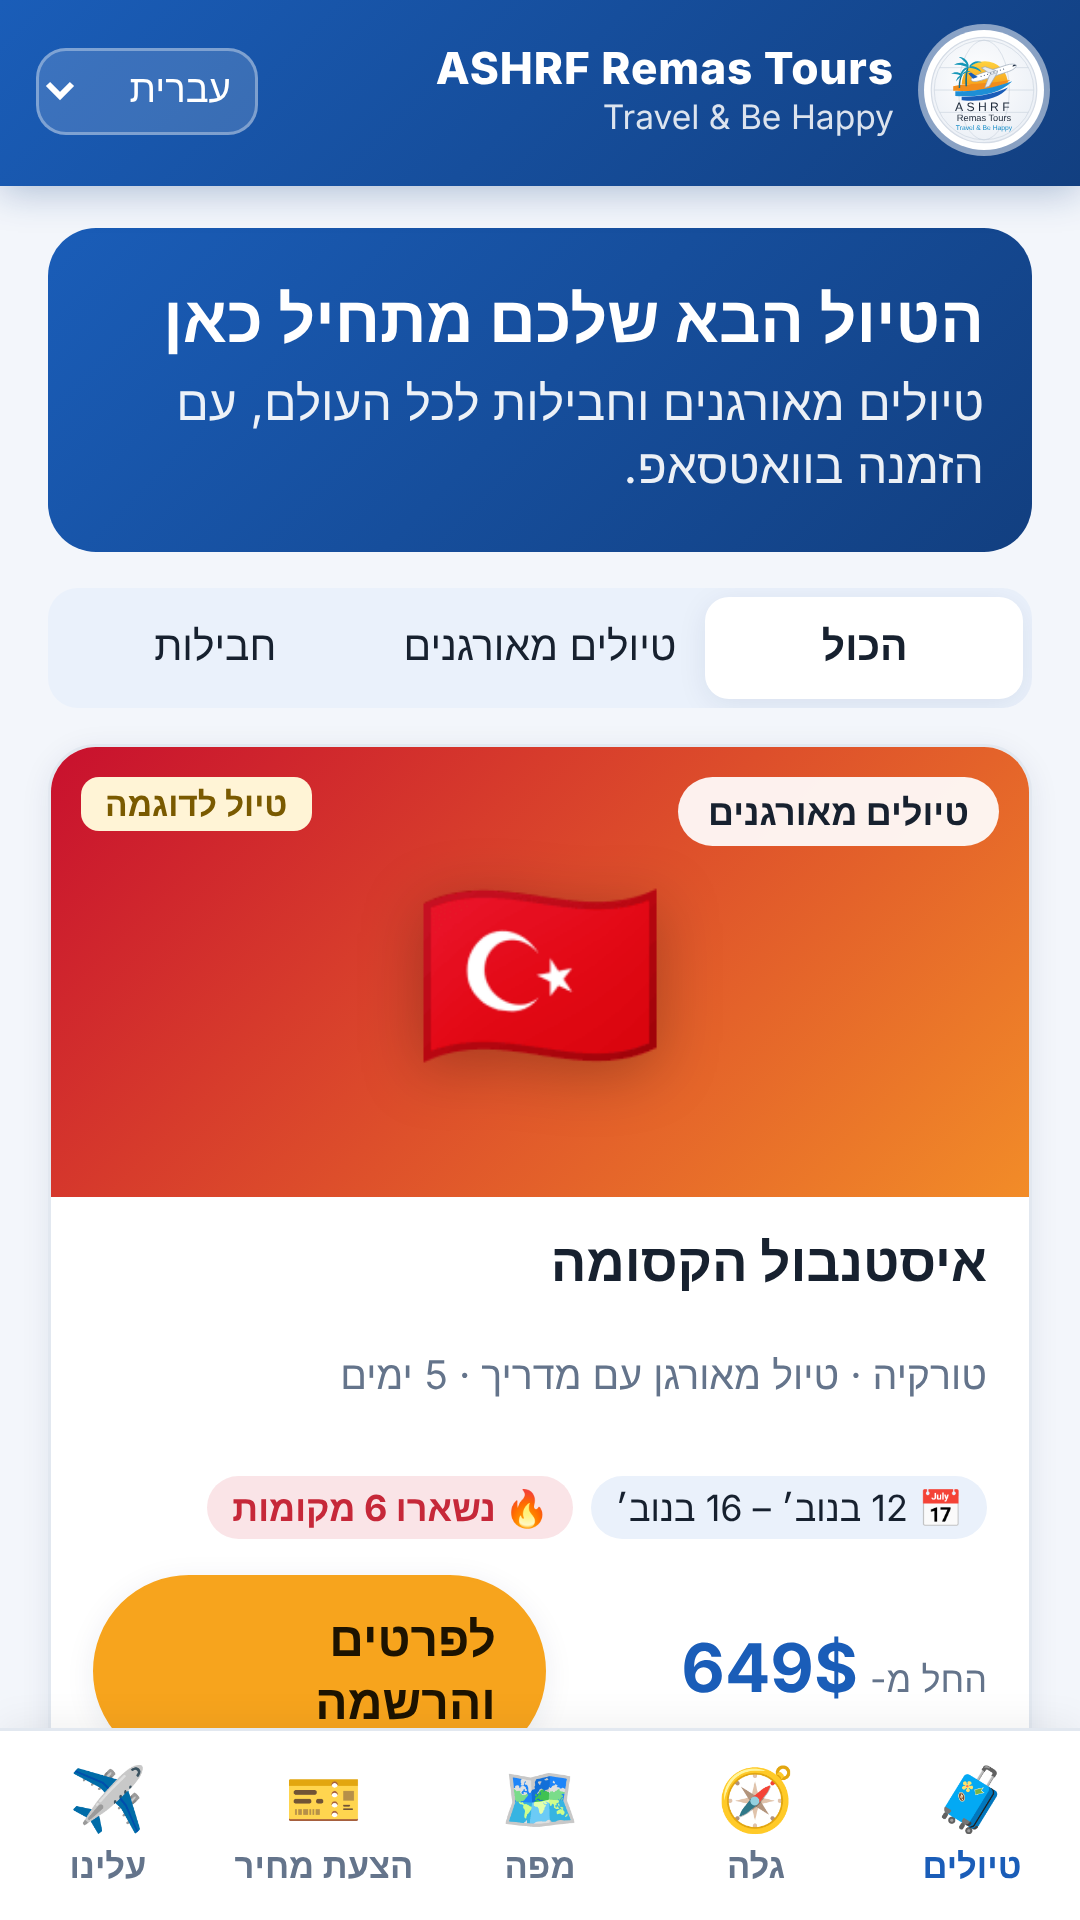
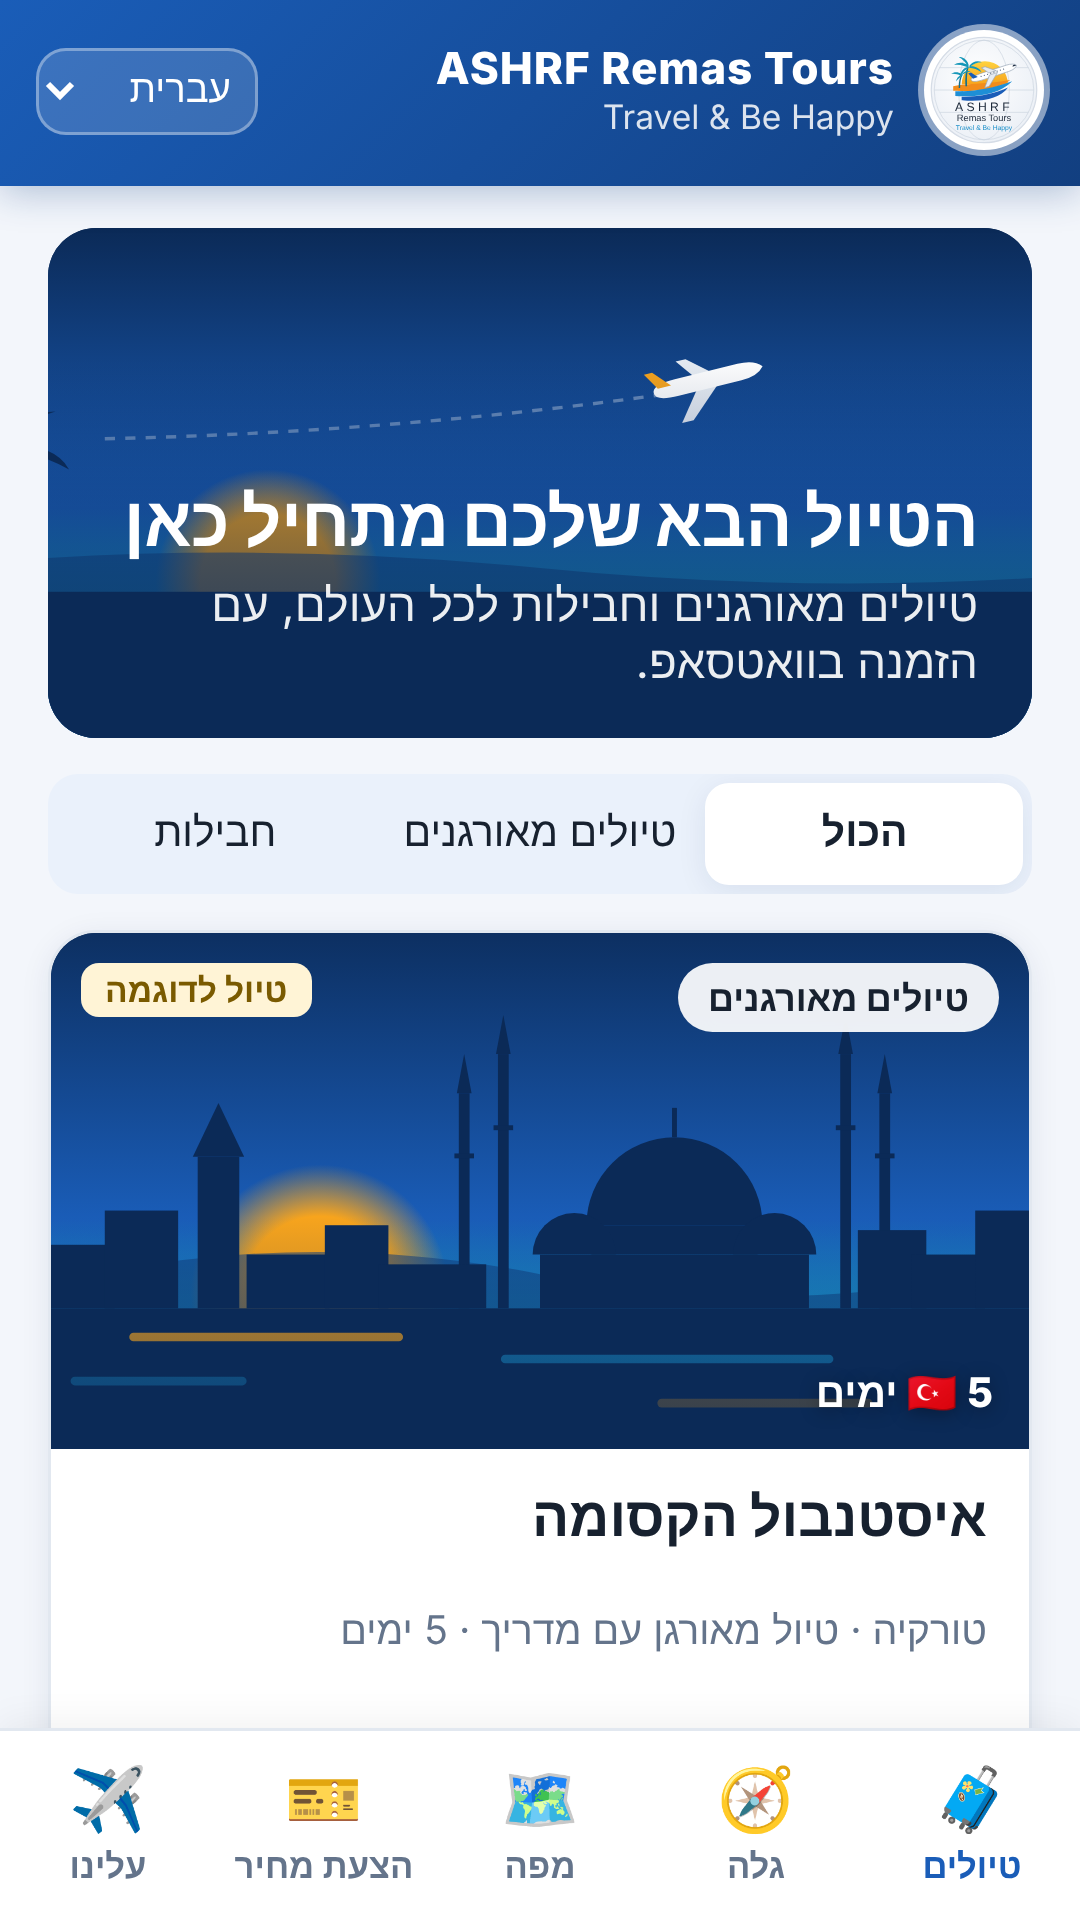
Illustrated trips store: destination scenes instead of flag covers
- scenes.js draws brand-style dusk illustrations per destination
  (Istanbul, Georgia, Petra, Dubai, Thailand) plus a plane-over-sea hero
- Trip cards and trip pages use the scene (or a real photo via image),
  with type, sample and days chips over a soft shade
- Illustrated hero banner, stronger typography and card hover
- Refreshed store screenshots

Claude-Session: https://claude.ai/code/session_01KWzyG75u2X6yaQpvVAqeeU

diff --git a/scenes.js b/scenes.js
@@ -1,0 +1,123 @@
+/* Destination illustrations (inline SVG) in the ASHRF brand style:
+ * dusk sky (night → blue → teal), low orange sun, a recognisable silhouette, and the
+ * logo's sea waves. Used when a trip has no real photo.
+ * Usage: Scenes.render("istanbul") · Scenes.hero()
+ */
+(() => {
+  "use strict";
+  const C = { night: "#0B2A57", deep: "#123F80", blue: "#1A5DB8", teal: "#1A8FC9", sun: "#F7A41D", snow: "#EAF2FF" };
+  let n = 0;
+
+  // Shared frame: sky, sun, far hills, then the scene's silhouette, then sea + waves.
+  function frame(w, h, ground, sunX, silhouette, opts = {}) {
+    const id = "sc" + (++n);
+    const g = ground;
+    const waves = [[0.08, 0.28, C.sun], [0.46, 0.34, C.teal], [0.02, 0.18, C.teal], [0.62, 0.22, C.sun]]
+      .map(([x, ww, c], i) => `<rect x="${x * w}" y="${g + 10 + i * 9}" width="${ww * w}" height="3.5" rx="1.75" fill="${c}" opacity="${(0.85 - i * 0.16).toFixed(2)}"/>`).join("");
+    return `<svg viewBox="0 0 ${w} ${h}" preserveAspectRatio="xMidYMid slice" aria-hidden="true" focusable="false">
+      <defs>
+        <linearGradient id="${id}s" x1="0" y1="0" x2="0" y2="1">
+          <stop offset="0" stop-color="${C.night}"/><stop offset=".55" stop-color="${opts.mid || C.blue}"/><stop offset="${(g / h).toFixed(2)}" stop-color="${opts.horizon || C.teal}"/>
+        </linearGradient>
+        <radialGradient id="${id}u"><stop offset="0" stop-color="${C.sun}"/><stop offset=".6" stop-color="${C.sun}"/><stop offset="1" stop-color="${C.sun}" stop-opacity="0"/></radialGradient>
+      </defs>
+      <rect width="${w}" height="${h}" fill="url(#${id}s)"/>
+      <circle cx="${sunX}" cy="${g - 6}" r="${h * 0.22}" fill="url(#${id}u)"/>
+      <path d="M0 ${g - 10} Q ${w * 0.25} ${g - 34} ${w * 0.5} ${g - 14} T ${w} ${g - 18} V ${h} H 0 Z" fill="${C.deep}" opacity=".55"/>
+      ${silhouette}
+      <rect x="0" y="${g}" width="${w}" height="${h - g}" fill="${opts.ground || C.night}"/>
+      ${opts.sea === false ? "" : waves}
+    </svg>`;
+  }
+
+  const W = 400, H = 240, G = 168;
+
+  const scenes = {
+    // Mosque with four minarets, Galata-style tower and low city
+    istanbul() {
+      const cx = 255;
+      let s = `<g fill="${C.night}">`;
+      s += `<rect x="${cx - 55}" y="${G - 22}" width="110" height="22"/><rect x="${cx - 34}" y="${G - 34}" width="68" height="12"/>`;
+      s += `<path d="M${cx - 36} ${G - 34} A36 36 0 0 1 ${cx + 36} ${G - 34} Z"/><rect x="${cx - 1}" y="${G - 82}" width="2" height="12"/>`;
+      s += `<path d="M${cx - 58} ${G - 22} A17 17 0 0 1 ${cx - 24} ${G - 22} Z"/><path d="M${cx + 24} ${G - 22} A17 17 0 0 1 ${cx + 58} ${G - 22} Z"/>`;
+      for (const [mx, mh] of [[cx - 70, 104], [cx + 70, 104], [cx - 86, 88], [cx + 86, 88]]) {
+        s += `<rect x="${mx - 2.2}" y="${G - mh}" width="4.4" height="${mh}"/><path d="M${mx - 3} ${G - mh} L${mx} ${G - mh - 16} L${mx + 3} ${G - mh} Z"/><rect x="${mx - 4}" y="${G - mh * 0.72}" width="8" height="2"/>`;
+      }
+      s += `<rect x="60" y="${G - 62}" width="17" height="62"/><path d="M58 ${G - 62} L68.5 ${G - 84} L79 ${G - 62} Z"/>`;
+      for (const [x, w, h] of [[0, 26, 26], [22, 30, 40], [80, 34, 22], [112, 26, 34], [134, 44, 18], [330, 28, 32], [352, 30, 22], [378, 22, 40]]) s += `<rect x="${x}" y="${G - h}" width="${w}" height="${h}"/>`;
+      return frame(W, H, G, 110, s + "</g>");
+    },
+
+    // Caucasus peaks with snow caps and a hilltop church
+    georgia() {
+      let s = `<path d="M-10 ${G} L70 ${G - 92} L110 ${G - 60} L170 ${G - 124} L240 ${G - 50} L300 ${G - 104} L410 ${G} Z" fill="${C.deep}"/>`;
+      s += `<path d="M152 ${G - 96} L170 ${G - 124} L188 ${G - 98} L178 ${G - 92} L170 ${G - 100} L162 ${G - 90} Z" fill="${C.snow}" opacity=".9"/>`;
+      s += `<path d="M284 ${G - 80} L300 ${G - 104} L316 ${G - 82} L306 ${G - 78} L300 ${G - 86} L292 ${G - 76} Z" fill="${C.snow}" opacity=".85"/>`;
+      s += `<path d="M58 ${G - 74} L70 ${G - 92} L82 ${G - 76} L74 ${G - 72} Z" fill="${C.snow}" opacity=".8"/>`;
+      s += `<g fill="${C.night}"><path d="M-10 ${G} Q 90 ${G - 54} 190 ${G - 30} T 410 ${G - 20} V ${G} Z"/>`;
+      s += `<rect x="96" y="${G - 70}" width="34" height="22"/><rect x="106" y="${G - 84}" width="14" height="14"/><path d="M104 ${G - 84} L113 ${G - 100} L122 ${G - 84} Z"/><rect x="112" y="${G - 108}" width="2" height="8"/></g>`;
+      return frame(W, H, G, 330, s, { mid: C.blue });
+    },
+
+    // Sandstone cliffs with the Treasury façade
+    petra() {
+      const rock = "#8C4A1A", rockLight = "#B8692E";
+      let s = `<path d="M-10 ${G} L-10 ${G - 120} Q 40 ${G - 140} 90 ${G - 128} L150 ${G - 132} L150 ${G} Z" fill="${rock}"/>`;
+      s += `<path d="M250 ${G} L250 ${G - 136} Q 320 ${G - 150} 410 ${G - 126} L410 ${G} Z" fill="${rock}"/>`;
+      s += `<path d="M150 ${G} L150 ${G - 132} L250 ${G - 136} L250 ${G} Z" fill="${rockLight}"/>`;
+      s += `<g fill="${rock}" opacity=".9"><rect x="166" y="${G - 112}" width="68" height="4"/><path d="M168 ${G - 112} L200 ${G - 126} L232 ${G - 112} Z"/><rect x="176" y="${G - 104}" width="48" height="3"/>`;
+      for (const x of [170, 184, 210, 224]) s += `<rect x="${x}" y="${G - 60}" width="5" height="60"/><rect x="${x}" y="${G - 100}" width="5" height="32"/>`;
+      s += `<rect x="166" y="${G - 64}" width="68" height="4"/><rect x="193" y="${G - 40}" width="14" height="40"/><path d="M196 ${G - 100} h8 v22 h-8 Z"/></g>`;
+      s += `<path d="M-10 ${G} Q 120 ${G - 14} 200 ${G - 6} T 410 ${G - 10} V ${G} Z" fill="#5A2E10"/>`;
+      // desert: sand ground instead of the sea
+      return frame(W, H, G, 200, s, { mid: "#2A5EA8", horizon: "#E0A458", ground: "#5A2E10", sea: false });
+    },
+
+    // Burj Khalifa, towers and the sail hotel
+    dubai() {
+      let s = `<g fill="${C.night}">`;
+      s += `<path d="M196 ${G} L196 ${G - 60} L200 ${G - 60} L200 ${G - 100} L203 ${G - 100} L203 ${G - 132} L205 ${G - 132} L206 ${G - 156} L207 ${G - 132} L209 ${G - 132} L209 ${G - 100} L212 ${G - 100} L212 ${G - 60} L216 ${G - 60} L216 ${G} Z"/>`;
+      for (const [x, w, h] of [[110, 20, 70], [134, 16, 92], [154, 22, 58], [232, 18, 80], [254, 24, 64], [282, 14, 98], [300, 22, 52], [80, 22, 46]]) s += `<rect x="${x}" y="${G - h}" width="${w}" height="${h}"/>`;
+      s += `<path d="M340 ${G} L340 ${G - 84} Q 372 ${G - 66} 374 ${G} Z"/><rect x="336" y="${G - 88}" width="3" height="88"/></g>`;
+      return frame(W, H, G, 110, s, { horizon: "#3AA0D8" });
+    },
+
+    // Temple spire, palms and karst islands in the sea
+    thailand() {
+      let s = `<g fill="${C.night}">`;
+      s += `<path d="M150 ${G} L150 ${G - 20} L160 ${G - 20} L160 ${G - 34} L168 ${G - 34} L174 ${G - 70} L176 ${G - 96} L178 ${G - 70} L184 ${G - 34} L192 ${G - 34} L192 ${G - 20} L202 ${G - 20} L202 ${G} Z"/>`;
+      s += `<path d="M120 ${G} L120 ${G - 16} L132 ${G - 30} L144 ${G - 16} L144 ${G} Z"/><path d="M208 ${G} L208 ${G - 16} L220 ${G - 30} L232 ${G - 16} L232 ${G} Z"/>`;
+      for (const [x, h, flip] of [[48, 78, 1], [70, 64, -1], [352, 72, -1]]) {
+        s += `<path d="M${x} ${G} Q ${x + 6 * flip} ${G - h / 2} ${x + 2 * flip} ${G - h}" stroke="${C.night}" stroke-width="4" fill="none"/>`;
+        const tx = x + 2 * flip, ty = G - h;
+        s += `<path d="M${tx} ${ty} q -22 -4 -30 10 q 14 -8 30 -10 Z M${tx} ${ty} q 22 -4 30 10 q -14 -8 -30 -10 Z M${tx} ${ty} q -8 -18 -24 -18 q 14 4 24 18 Z M${tx} ${ty} q 8 -18 24 -18 q -14 4 -24 18 Z"/>`;
+      }
+      s += `</g><g fill="${C.deep}"><path d="M262 ${G} Q 262 ${G - 46} 280 ${G - 52} Q 296 ${G - 46} 296 ${G} Z"/><path d="M300 ${G} Q 302 ${G - 30} 314 ${G - 34} Q 326 ${G - 28} 326 ${G} Z"/></g>`;
+      return frame(W, H, G, 300, s, { horizon: "#26A69A" });
+    },
+
+    // Generic: plane over sea with palms (the logo's motif)
+    default() { return hero(W, H, G); },
+  };
+
+  function hero(w = 800, h = 300, g = 214) {
+    let s = `<g fill="${C.night}">`;
+    for (const [x, hh, flip] of [[w * 0.07, h * 0.36, 1], [w * 0.11, h * 0.28, -1]]) {
+      s += `<path d="M${x} ${g} Q ${x + 8 * flip} ${g - hh / 2} ${x + 3 * flip} ${g - hh}" stroke="${C.night}" stroke-width="5" fill="none"/>`;
+      const tx = x + 3 * flip, ty = g - hh;
+      s += `<path d="M${tx} ${ty} q -28 -5 -38 12 q 18 -10 38 -12 Z M${tx} ${ty} q 28 -5 38 12 q -18 -10 -38 -12 Z M${tx} ${ty} q -10 -22 -30 -22 q 18 5 30 22 Z M${tx} ${ty} q 10 -22 30 -22 q -18 5 -30 22 Z"/>`;
+    }
+    s += `</g>`;
+    // plane with contrail
+    const px = w * 0.62, py = h * 0.3;
+    s += `<path d="M${w * 0.18} ${py + 34} Q ${w * 0.4} ${py + 30} ${px - 10} ${py + 6}" stroke="#FFFFFF" stroke-opacity=".35" stroke-width="2" fill="none" stroke-dasharray="6 6"/>`;
+    s += `<g transform="translate(${px} ${py}) rotate(-14)" fill="#FFFFFF"><path d="M-30 0 q 0 -5 14 -5 h 38 q 10 0 14 5 q -4 5 -14 5 h -38 q -14 0 -14 -5 Z"/><path d="M-4 3 l -14 18 h 7 l 20 -18 Z" opacity=".9"/><path d="M-4 -3 l -9 -12 h 6 l 14 12 Z" opacity=".9"/><path d="M-27 -2 l -6 -10 h 5 l 9 10 Z" fill="${C.sun}"/></g>`;
+    return frame(w, h, g, w * 0.3, s, { sea: false });
+  }
+
+  window.Scenes = {
+    render(kind) { return (scenes[kind] || scenes.default)(); },
+    hero: () => hero(),
+    kinds: Object.keys(scenes),
+  };
+})();

diff --git a/styles.css b/styles.css
@@ -457,3 +457,25 @@ textarea { font: inherit; resize: vertical; }
 #favBtn { min-height: 44px; }
 .chips { display: flex; flex-wrap: wrap; gap: 6px; }
 .chip.active { background: var(--primary); color: #fff; border-color: var(--primary); }
+
+/* ---------- Trips store: illustrated design ---------- */
+.trips-hero { position: relative; overflow: hidden; padding: 0; min-height: 170px; display: flex; align-items: flex-end; background: #0B2A57; }
+.trips-hero > svg { position: absolute; inset: 0; width: 100%; height: 100%; }
+.trips-hero::after { content: ""; position: absolute; inset: 0; background: linear-gradient(180deg, rgba(11,42,87,0) 25%, rgba(11,42,87,.88) 100%); }
+.trips-hero-text { position: relative; z-index: 1; padding: 18px 18px 16px; }
+.trips-hero-text h2 { margin: 0 0 4px; font-size: 1.45rem; font-weight: 900; letter-spacing: -.01em; text-wrap: balance; }
+.trips-hero-text p { margin: 0; opacity: .92; font-size: .95rem; }
+.trip-cover { height: 172px; overflow: hidden; background: #0B2A57; display: block; }
+.trip-cover.big { height: 210px; }
+.trip-cover > svg, .trip-photo { position: absolute; inset: 0; width: 100%; height: 100%; }
+.trip-photo { background-size: cover; background-position: center; }
+.trip-cover::after { content: ""; position: absolute; inset: 0; background: linear-gradient(180deg, rgba(11,42,87,0) 55%, rgba(11,42,87,.55) 100%); pointer-events: none; }
+.trip-type, .trip-sample, .trip-dest { z-index: 1; }
+.trip-type { backdrop-filter: blur(6px); }
+.trip-dest { position: absolute; bottom: 10px; inset-inline-start: 12px; color: #fff; font-weight: 800; font-size: .85rem; text-shadow: 0 1px 6px rgba(0,0,0,.35); }
+.trip-card { transition: transform .15s ease, box-shadow .15s ease; }
+.trip-card:hover { transform: translateY(-2px); box-shadow: 0 10px 28px rgba(16,42,84,.16); }
+@media (prefers-reduced-motion: reduce) { .trip-card { transition: none; } .trip-card:hover { transform: none; } }
+.trip-body h3 { font-size: 1.15rem; font-weight: 800; }
+.trip-price b { font-weight: 900; letter-spacing: -.01em; }
+.trip-foot .pill.primary { padding: 9px 16px; min-height: 40px; }

diff --git a/trips.js b/trips.js
@@ -87,14 +87,16 @@
   }
   const upcoming = (trip) => trip.dates.filter((d) => d.end >= new Date().toISOString().slice(0, 10));
 
+  // Real photo when the trip has one, otherwise the destination illustration (scenes.js).
   function cover(trip, big) {
-    const bg = trip.image
-      ? `background-image:linear-gradient(180deg,rgba(0,0,0,0) 40%,rgba(0,0,0,.55)),url('${esc(trip.image)}')`
-      : `background:linear-gradient(135deg,${esc(trip.colors[0])},${esc(trip.colors[1])})`;
-    return `<div class="trip-cover ${big ? "big" : ""}" style="${bg}">
-      ${trip.image ? "" : `<span class="trip-flag">${trip.flag}</span>`}
+    const art = trip.image
+      ? `<div class="trip-photo" style="background-image:url('${esc(trip.image)}')"></div>`
+      : (window.Scenes ? window.Scenes.render(trip.scene) : "");
+    return `<div class="trip-cover ${big ? "big" : ""}">
+      ${art}
       <span class="trip-type">${esc(t(trip.type))}</span>
       ${SHOW_SAMPLE_BADGE ? `<span class="trip-sample">${esc(t("sample"))}</span>` : ""}
+      <span class="trip-dest">${trip.flag} ${esc(trip.days)} ${esc(t("days"))}</span>
     </div>`;
   }
 
@@ -112,8 +114,11 @@
     const tab = (k) => `<button data-trip-filter="${k}" class="${filter === k ? "active" : ""}">${esc(t(k))}</button>`;
     root.innerHTML = `
       <div class="trips-hero">
-        <h2>${esc(t("heroTitle"))}</h2>
-        <p>${esc(t("heroText"))}</p>
+        ${window.Scenes ? window.Scenes.hero() : ""}
+        <div class="trips-hero-text">
+          <h2>${esc(t("heroTitle"))}</h2>
+          <p>${esc(t("heroText"))}</p>
+        </div>
       </div>
       <div class="seg trips-seg">${tab("all")}${tab("group")}${tab("package")}</div>
       <div class="trip-list">

diff --git a/trips-data.js b/trips-data.js
@@ -6,7 +6,8 @@
 //   priceFrom: מחיר לאדם בדולרים, החל מ-
 //   dates: [{ start, end, seats }]  — seats = כמה מקומות נשארו (למשל 6 → "נשארו 6 מקומות")
 //   includes: flight, hotel, breakfast, halfboard, guide, transfers, tours, insurance
-//   image: קישור לתמונה (לא חובה). בלי תמונה מוצג רקע צבעוני עם דגל.
+//   image: קישור לתמונה אמיתית (לא חובה). בלי תמונה מוצג איור של היעד.
+//   scene: איזה איור להציג: istanbul, georgia, petra, dubai, thailand (אחר = מטוס מעל הים)
 //   center: מרכז היעד, לכפתור "גלו את היעד" במדריך
 
 const TL = (he, ar, en) => ({ he, ar, en });
@@ -14,6 +15,7 @@ const TL = (he, ar, en) => ({ he, ar, en });
 window.TRIPS = [
   {
     id: "istanbul",
+    scene: "istanbul",
     type: "group",
     flag: "🇹🇷",
     colors: ["#C8102E", "#F28C28"],
@@ -34,6 +36,7 @@ window.TRIPS = [
   },
   {
     id: "georgia",
+    scene: "georgia",
     type: "group",
     flag: "🇬🇪",
     colors: ["#1B6B4A", "#7CB342"],
@@ -54,6 +57,7 @@ window.TRIPS = [
   },
   {
     id: "petra",
+    scene: "petra",
     type: "group",
     flag: "🇯🇴",
     colors: ["#B5651D", "#E0A458"],
@@ -74,6 +78,7 @@ window.TRIPS = [
   },
   {
     id: "dubai",
+    scene: "dubai",
     type: "package",
     flag: "🇦🇪",
     colors: ["#0B4F8A", "#3AA0D8"],
@@ -94,6 +99,7 @@ window.TRIPS = [
   },
   {
     id: "thailand",
+    scene: "thailand",
     type: "package",
     flag: "🇹🇭",
     colors: ["#2E7D32", "#26A69A"],

diff --git a/sw.js b/sw.js
@@ -1,8 +1,8 @@
 // Service worker: caches the app shell so the app opens offline; live data always comes from the network.
-const CACHE = "ashrf-tours-v8";
+const CACHE = "ashrf-tours-v9";
 const SHELL = [
   "./", "index.html", "styles.css", "app.js", "config.js", "i18n.js", "manifest.webmanifest",
-  "auth.js", "quotes.js", "codes-gate.js", "access-codes.js", "trips.js", "trips-data.js", "assets/logo.svg", "assets/icon-192.png", "assets/icon-512.png",
+  "auth.js", "quotes.js", "codes-gate.js", "access-codes.js", "trips.js", "trips-data.js", "scenes.js", "assets/logo.svg", "assets/icon-192.png", "assets/icon-512.png",
   "https://unpkg.com/leaflet@1.9.4/dist/leaflet.css",
   "https://unpkg.com/leaflet@1.9.4/dist/leaflet.js",
 ];

diff --git a/index.html b/index.html
@@ -151,6 +151,7 @@
   <script src="config.js"></script>
   <script src="i18n.js"></script>
   <script src="app.js"></script>
+  <script src="scenes.js"></script>
   <script src="trips-data.js"></script>
   <script src="trips.js"></script>
   <script src="access-codes.js"></script>
